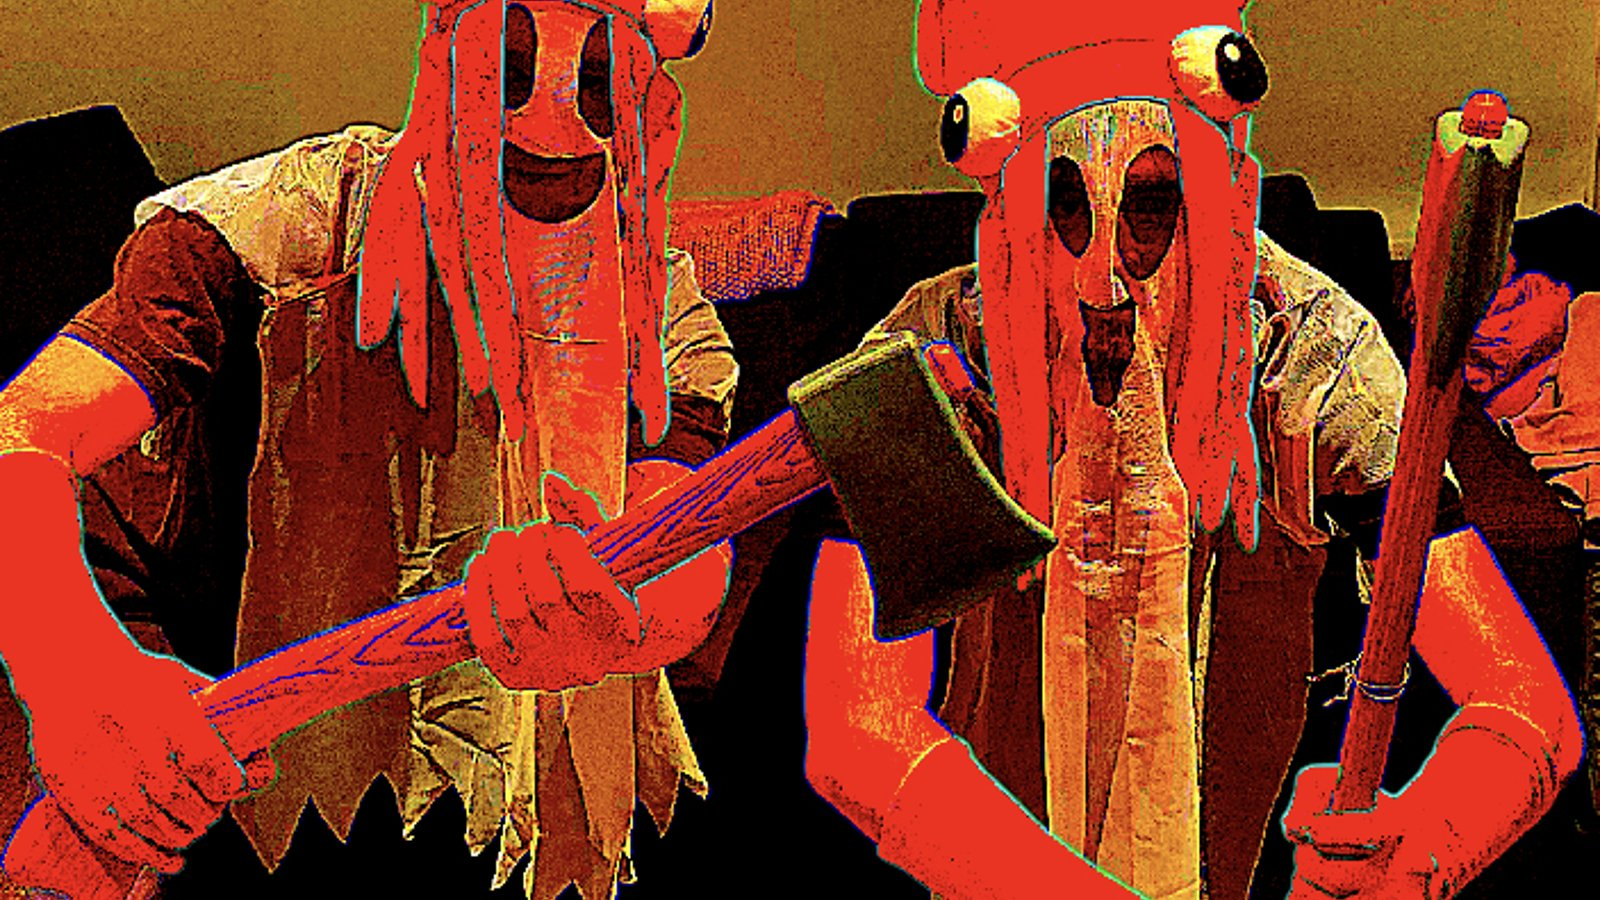
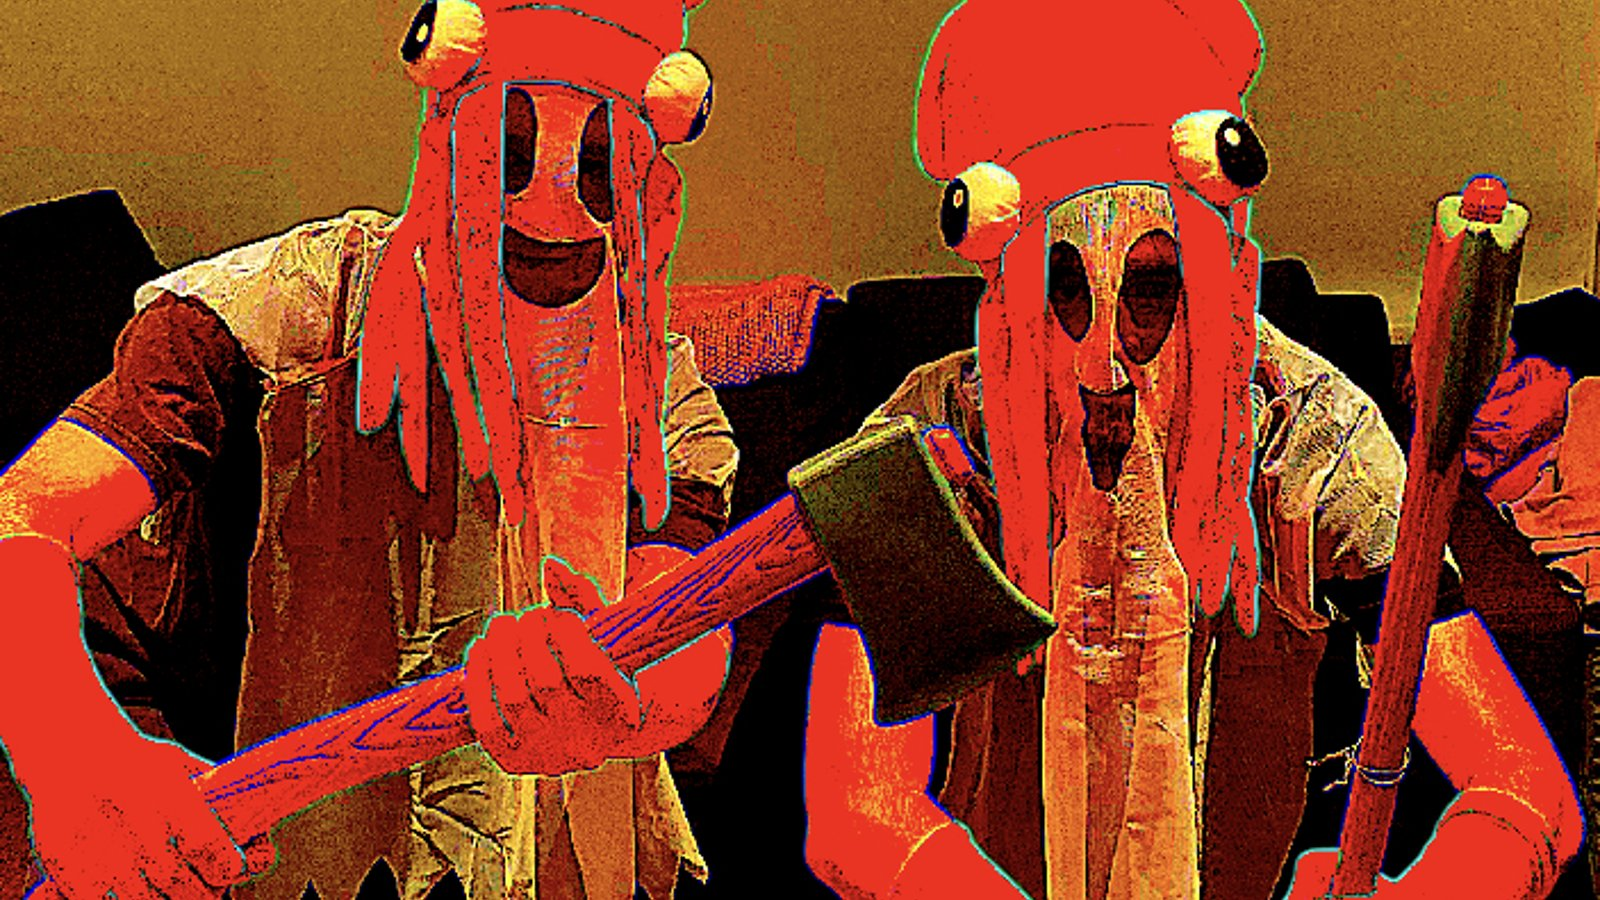
map leads each water page, sidebar groups open on click, bitterroot drawn, photos cropped to one frame

diff --git a/layouts/_partials/sidebar.html b/layouts/_partials/sidebar.html
@@ -5,7 +5,7 @@
 <h3>categories</h3>
 {{ $terms := where site.Pages "Kind" "term" }}
 {{ $kind := dict }}{{ range $terms }}{{ $k := cond (or (hasSuffix .Title " River") (hasSuffix .Title " Creek")) "rivers" (cond (hasSuffix .Title " Lake") "lakes" (cond (in site.Params.places .Title) "places" "top")) }}{{ $kind = merge $kind (dict .Title $k) }}{{ end }}
-<ul class="plain"><li><a href="{{ (site.GetPage "posts").RelPermalink }}">all</a></li>{{ range (where $terms "Weight" "ne" 0).ByWeight }}{{ if not (in (slice "rivers" "lakes") .Title) }}<li><a href="{{ .RelPermalink }}">{{ .Title }}</a>{{ with len .Pages }} <span class="mute">{{ . }}</span>{{ end }}</li>{{ end }}{{ end }}{{ range $g := slice "rivers" "lakes" "places" }}{{ $in := where $terms.ByTitle "Title" "in" (slice) }}{{ range $terms.ByTitle }}{{ if eq (index $kind .Title) $g }}{{ $in = $in | append . }}{{ end }}{{ end }}{{ with $in }}<li>{{ with site.GetPage (printf "/categories/%s" $g) }}<a href="{{ .RelPermalink }}">{{ $g }}</a>{{ else }}{{ $g }}{{ end }}<ul class="plain nest">{{ range . }}<li><a href="{{ .RelPermalink }}">{{ .Title }}</a>{{ with len .Pages }} <span class="mute">{{ . }}</span>{{ end }}</li>{{ end }}</ul></li>{{ end }}{{ end }}{{ range (where $terms "Weight" 0).ByTitle }}{{ if eq (index $kind .Title) "top" }}<li><a href="{{ .RelPermalink }}">{{ .Title }}</a>{{ with len .Pages }} <span class="mute">{{ . }}</span>{{ end }}</li>{{ end }}{{ end }}</ul>
+<ul class="plain"><li><a href="{{ (site.GetPage "posts").RelPermalink }}">all</a></li>{{ range (where $terms "Weight" "ne" 0).ByWeight }}{{ if not (in (slice "rivers" "lakes") .Title) }}<li><a href="{{ .RelPermalink }}">{{ .Title }}</a>{{ with len .Pages }} <span class="mute">{{ . }}</span>{{ end }}</li>{{ end }}{{ end }}{{ range $g := slice "rivers" "lakes" "places" }}{{ $in := where $terms.ByTitle "Title" "in" (slice) }}{{ range $terms.ByTitle }}{{ if eq (index $kind .Title) $g }}{{ $in = $in | append . }}{{ end }}{{ end }}{{ with $in }}<li><details><summary>{{ $g }}</summary><ul class="plain nest">{{ with site.GetPage (printf "/categories/%s" $g) }}<li><a href="{{ .RelPermalink }}">all {{ $g }}</a></li>{{ end }}{{ range . }}<li><a href="{{ .RelPermalink }}">{{ .Title }}</a>{{ with len .Pages }} <span class="mute">{{ . }}</span>{{ end }}</li>{{ end }}</ul></details></li>{{ end }}{{ end }}{{ range (where $terms "Weight" 0).ByTitle }}{{ if eq (index $kind .Title) "top" }}<li><a href="{{ .RelPermalink }}">{{ .Title }}</a>{{ with len .Pages }} <span class="mute">{{ . }}</span>{{ end }}</li>{{ end }}{{ end }}</ul>
 <h3>older posts</h3>
 <ul class="plain">{{ $a := site.GetPage "archive" }}{{ range (where site.RegularPages "Section" "posts").GroupByDate "January 2006" }}<li><a href="{{ $a.RelPermalink }}#{{ .Key | urlize }}">{{ .Key }}</a></li>{{ end }}</ul>
 {{ with site.Params.links }}<h3>links</h3><ul class="plain">{{ range . }}<li><a href="{{ .url }}">{{ .name }}</a></li>{{ end }}</ul>{{ end }}

diff --git a/layouts/term.html b/layouts/term.html
@@ -1,5 +1,7 @@
 {{ define "main" }}
 <h1 class="listtitle">{{ .Title }}</h1>
+{{ $own := resources.Get (printf "maps/%s.svg" (.Title | urlize)) }}
+{{ with $own }}{{ partial "map.html" $.Title }}{{ end }}
 {{ $re := printf "(?s)<figure class=\"card[^\"]*\" data-tags=\"[^\"]*\\b%s\\b[^\"]*\">.*?</figure>" (.Data.Term | urlize) }}
-{{ range .Pages.ByDate.Reverse }}{{ $p := . }}{{ range findRE $re .Content }}{{ replaceRE "class=\"ftitle\" href=\"[^\"]*\"" (printf "class=\"ftitle\" href=\"%s\"" $p.RelPermalink) . | safeHTML }}{{ end }}{{ end }}
+{{ range .Pages.ByDate.Reverse }}{{ $p := . }}{{ range findRE $re .Content }}{{ if not (and $own (hasPrefix . "<figure class=\"card map\"")) }}{{ replaceRE "class=\"ftitle\" href=\"[^\"]*\"" (printf "class=\"ftitle\" href=\"%s\"" $p.RelPermalink) . | safeHTML }}{{ end }}{{ end }}{{ end }}
 {{ end }}

diff --git a/static/css/site.css b/static/css/site.css
@@ -32,6 +32,9 @@ ul.plain { list-style: none; padding: 0; margin: 0 }
 .side h3 { font: 1.25rem/1 "Gochi Hand", cursive; margin: 1.8rem 0 .5rem }
 .side a { text-decoration: none }
 ul.plain.nest { margin-left: 1.1em }
+.side summary { cursor: pointer; list-style: none }
+.side summary::before { content: "+ "; color: var(--mute) }
+.side details[open] summary::before { content: "- " }
 .side a:hover { text-decoration: underline }
 .side img { width: 100%; margin: 0 0 1rem }
 .mute { color: var(--mute); font-size: .85rem }

diff --git a/import.py b/import.py
@@ -1,5 +1,5 @@
 import pathlib, re, datetime, subprocess, plistlib
-from PIL import Image, ImageOps, ImageFilter
+from PIL import Image, ImageOps
 src = pathlib.Path.home() / "Desktop" / "fish_are_friends"
 dst = pathlib.Path("content/posts")
 months = {m: i for i, m in enumerate(["january", "february", "march", "april", "may", "june", "july", "august", "september", "october", "november", "december"], 1)}
@@ -30,14 +30,7 @@ for folder in sorted(p for p in src.iterdir() if p.is_dir()):
             if not jpg.exists() or jpg.stat().st_mtime < f.stat().st_mtime:
                 im = ImageOps.exif_transpose(Image.open(f)).convert("RGB")
                 im.thumbnail((1600, 1600))
-                box = (1600, 900)
-                if im.height > im.width:
-                    bg = ImageOps.fit(im, box).filter(ImageFilter.GaussianBlur(40))
-                    im = ImageOps.contain(im, box)
-                    bg.paste(im, ((box[0] - im.width) // 2, 0))
-                    im = bg
-                else:
-                    im = ImageOps.fit(im, box)
+                im = ImageOps.fit(im, (1600, 900), centering=(0.5, 0.35))
                 im.save(jpg, quality=85)
             photos.append(f'![{desc}]({jpg.name} "{name} | {", ".join(tag)}")')
         elif f.suffix == ".river":

diff --git a/README.md b/README.md
@@ -2,7 +2,7 @@
 
 The site behind fisharefriends.org. Hugo builds it, GitHub Pages serves it, a push to main publishes it.
 
-posts come from the folder ~/Desktop/fish_are_friends, one post per month folder (`August_2022`, or `August_2022__Dean River trip` for a title), synced by `./sync.sh` or the launch agent. In a month folder: a photo `Mack_the_BullTrout.jpg` is a card titled from the name with any tag text dropped (Josh_Dean_River tagged Dean River is titled Josh), in every thread its Finder tags name (or `Mack_the_BullTrout__fishies,dean river.jpg` without Finder tags; no tags at all means fishies); an optional `Mack_the_BullTrout.txt` beside it is its caption; every river or lake in the photos' tags (a tag ending in River, Creek or Lake) gets its own map card automatically, drawn on first use (BC Freshwater Atlas, then OpenStreetMap); an empty `Morice_River.river` file adds one by hand; `Banquet_by_Bloc_Party__P-i0jw61niE.video` is a song card (YouTube id after the double underscore, caption from `Banquet_by_Bloc_Party.txt`). Cards run photos, then rivers, then songs. Threads list the cards tagged with them, newest first, each linking to its month. Every photo becomes a 16:9 card: wide ones are cropped to it, tall ones sit centred over a blurred copy of themselves. Posts written by hand:
+posts come from the folder ~/Desktop/fish_are_friends, one post per month folder (`August_2022`, or `August_2022__Dean River trip` for a title), synced by `./sync.sh` or the launch agent. In a month folder: a photo `Mack_the_BullTrout.jpg` is a card titled from the name with any tag text dropped (Josh_Dean_River tagged Dean River is titled Josh), in every thread its Finder tags name (or `Mack_the_BullTrout__fishies,dean river.jpg` without Finder tags; no tags at all means fishies); an optional `Mack_the_BullTrout.txt` beside it is its caption; every river or lake in the photos' tags (a tag ending in River, Creek or Lake) gets its own map card automatically, drawn on first use (BC Freshwater Atlas, then OpenStreetMap; `Rscript maps.R "Bitterroot River" "Bitteroot River"` draws under a different tag spelling); an empty `Morice_River.river` file adds one by hand; `Banquet_by_Bloc_Party__P-i0jw61niE.video` is a song card (YouTube id after the double underscore, caption from `Banquet_by_Bloc_Party.txt`). Cards run photos, then rivers, then songs. Threads list the cards tagged with them, newest first, each linking to its month. Every photo is cropped to the same 16:9 card (tall ones keep their upper part). Posts written by hand:
 
 new post: `hugo new content posts/<slug>/index.md`, set `categories` to one or more of spey fishing, single hand, music, floats, fly tying, film, art, write under the front matter. Photos sit beside index.md, landscape, and go in as `![caption](photo.jpg)`: they show 484 wide on the left with a bold title (the post title, or `![caption](photo.jpg "title")`) linking to the post category and the caption beside them, and open full size on click. Maps and videos take the same width. Add `river: "Morice River"` to the front matter and put `{{< map >}}` where the river card should sit (see maps.R). Music: `{{< video ID "title" >}}your words{{< /video >}}` makes a video card with the title linking to YouTube.
 

diff --git a/content/posts/2021-03-march-2021/index.md b/content/posts/2021-03-march-2021/index.md
@@ -1,6 +1,8 @@
 ---
 title: "March 2021"
 date: 2021-03-01T12:00:00-07:00
-categories: [Bitteroot River, fishies]
+categories: [Bitteroot River, fishies, rivers]
 ---
 ![](blake.jpg "Blake | Bitteroot River, fishies")
+
+{{< map "Bitteroot River" >}}
